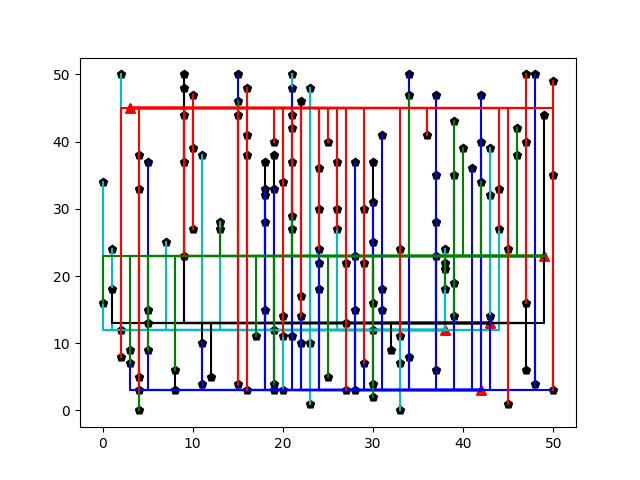
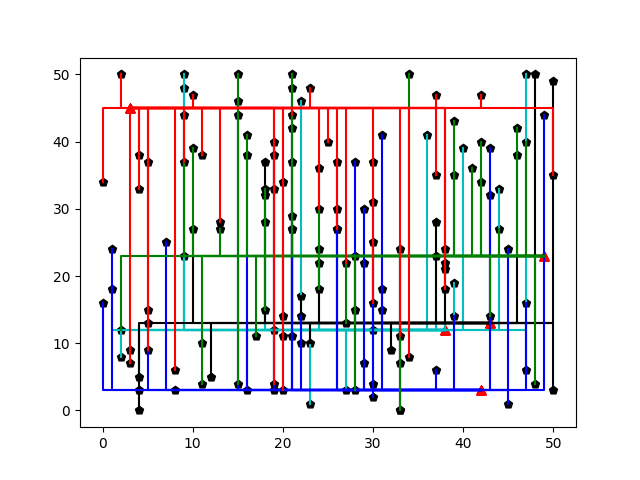
comments added

diff --git a/algorithms/Hillclimber.py b/algorithms/Hillclimber.py
@@ -65,6 +65,7 @@ def first_algorithm():
 
             # no unused houses left, applies hillclimber to optimalize connections
             if unused_houses == []:     
+                helper.hillclimber()
 
 def calc_total_cost():
     """
